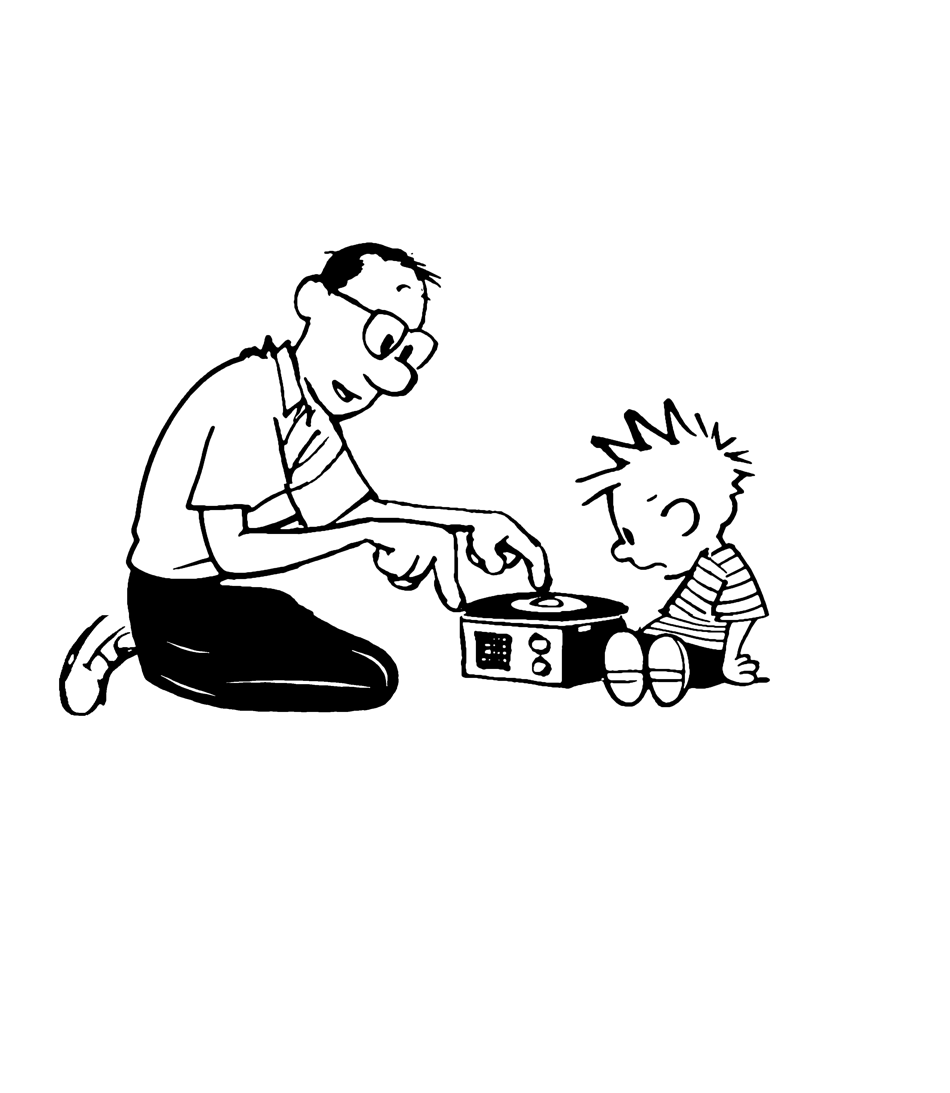
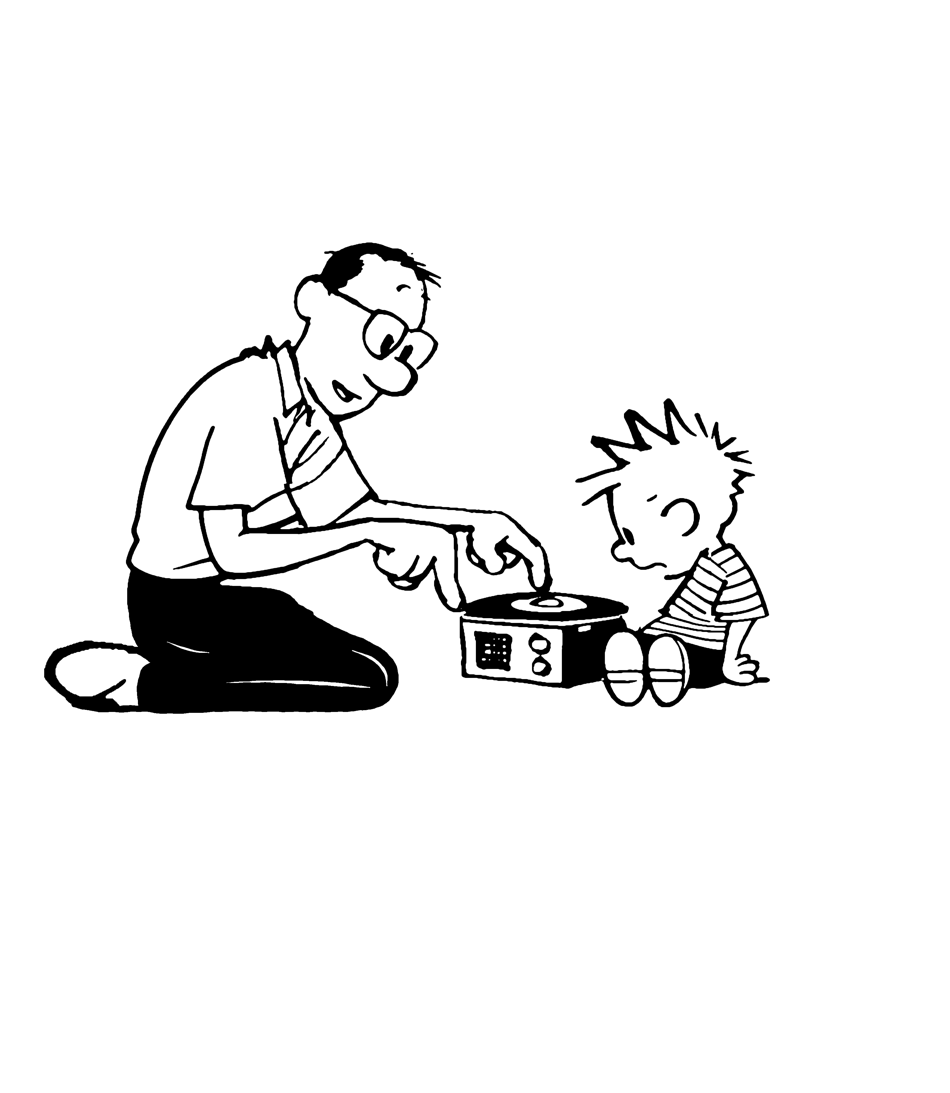
Revert "Tuck Dad's feet under him, shorten his arm, drape the resting hand"
This reverts commit 2ddb767c2: the tucked feet, shortened arm and draped
hand were worse than the versions before them.

Changed region(s): [[0.0305, 0.5599, 0.2442, 0.6532]]

diff --git a/panels.html b/panels.html
@@ -7,13 +7,13 @@
 <section id="panel-1"><h2>Panel 1</h2><p>Original central artwork with the existing completed left extension.</p>
 <p class="details">2834 × 2066 pixels · original-crop agreement: 100% · <a href="assets/full-panels/panel1.png?v=b03ae498a9" download="panel1.png">Download PNG</a> · <a href="assets/full-panels/panel1.png?v=b03ae498a9" target="_blank" rel="noopener">Open full size</a></p>
 <label><input class="show-source" type="checkbox"> Show original crop overlay</label>
-<div class="scroll"><div class="stage" style="--native-width:2834px"><img class="complete" src="assets/full-panels/panel1.png?v=b03ae498a9" width="2834" height="2066" alt="Completed comic panel 1 without dialogue" loading="lazy"><img class="source" src="assets/full-panels/original1.png" style="left:14.114326040931546%;top:0.0%;width:57.657021877205366%" width="1634" height="2066" alt="Original crop of panel 1" hidden></div></div></section><section id="panel-2"><h2>Panel 2</h2><p>Dad points to the record, sitting back on his heels. His trousers are drawn in code (drawn_legs.py); his foot is tucked under him on its toes, using panel 1's front shoe turned over. The player uses the grille and knobs from panel 1.</p>
-<p class="details">3182 × 3660 pixels · original-crop agreement: 99.251% · <a href="assets/full-panels/panel2.png?v=860604fcc2" download="panel2.png">Download PNG</a> · <a href="assets/full-panels/panel2.png?v=860604fcc2" target="_blank" rel="noopener">Open full size</a></p>
+<div class="scroll"><div class="stage" style="--native-width:2834px"><img class="complete" src="assets/full-panels/panel1.png?v=b03ae498a9" width="2834" height="2066" alt="Completed comic panel 1 without dialogue" loading="lazy"><img class="source" src="assets/full-panels/original1.png" style="left:14.114326040931546%;top:0.0%;width:57.657021877205366%" width="1634" height="2066" alt="Original crop of panel 1" hidden></div></div></section><section id="panel-2"><h2>Panel 2</h2><p>Dad points to the record, sitting back on his heels. His trousers are drawn in code (drawn_legs.py); the trailing shoe is panel 1's planted shoe turned sole up. The player uses the grille and knobs from panel 1.</p>
+<p class="details">3182 × 3660 pixels · original-crop agreement: 99.251% · <a href="assets/full-panels/panel2.png?v=f43d609ae7" download="panel2.png">Download PNG</a> · <a href="assets/full-panels/panel2.png?v=f43d609ae7" target="_blank" rel="noopener">Open full size</a></p>
 <label><input class="show-source" type="checkbox"> Show original crop overlay</label>
-<div class="scroll"><div class="stage" style="--native-width:3182px"><img class="complete" src="assets/full-panels/panel2.png?v=860604fcc2" width="3182" height="3660" alt="Completed comic panel 2 without dialogue" loading="lazy"><img class="source" src="assets/full-panels/original2.png" style="left:25.1414204902577%;top:0.0%;width:49.7171590194846%" width="1582" height="2060" alt="Original crop of panel 2" hidden></div></div></section><section id="panel-3"><h2>Panel 3</h2><p>Dad rests his hand on his thigh. Everything of him outside the scanned crop is drawn in code (drawn_legs.py); the resting hand is his scanned gesturing hand turned palm down. Calvin looks up at Dad with his feet still toward the player. His figure and the player come from panel 1, enlarged by 56% for this closer view.</p>
-<p class="details">3174 × 3660 pixels · original-crop agreement: 100% · <a href="assets/full-panels/panel3.png?v=491ff4bb35" download="panel3.png">Download PNG</a> · <a href="assets/full-panels/panel3.png?v=491ff4bb35" target="_blank" rel="noopener">Open full size</a></p>
+<div class="scroll"><div class="stage" style="--native-width:3182px"><img class="complete" src="assets/full-panels/panel2.png?v=f43d609ae7" width="3182" height="3660" alt="Completed comic panel 2 without dialogue" loading="lazy"><img class="source" src="assets/full-panels/original2.png" style="left:25.1414204902577%;top:0.0%;width:49.7171590194846%" width="1582" height="2060" alt="Original crop of panel 2" hidden></div></div></section><section id="panel-3"><h2>Panel 3</h2><p>Dad rests his hand on his thigh. Everything of him outside the scanned crop is drawn in code (drawn_legs.py); the resting hand is his scanned gesturing hand turned palm down. Calvin looks up at Dad with his feet still toward the player. His figure and the player come from panel 1, enlarged by 56% for this closer view.</p>
+<p class="details">3174 × 3660 pixels · original-crop agreement: 100% · <a href="assets/full-panels/panel3.png?v=e04a8ea2f8" download="panel3.png">Download PNG</a> · <a href="assets/full-panels/panel3.png?v=e04a8ea2f8" target="_blank" rel="noopener">Open full size</a></p>
 <label><input class="show-source" type="checkbox"> Show original crop overlay</label>
-<div class="scroll"><div class="stage" style="--native-width:3174px"><img class="complete" src="assets/full-panels/panel3.png?v=491ff4bb35" width="3174" height="3660" alt="Completed comic panel 3 without dialogue" loading="lazy"><img class="source" src="assets/full-panels/original3.png" style="left:25.20478890989288%;top:0.0%;width:49.59042218021424%" width="1574" height="2060" alt="Original crop of panel 3" hidden></div></div></section><section id="panel-4"><h2>Panel 4</h2><p>Original night scene with the existing completed left side of the bed.</p>
+<div class="scroll"><div class="stage" style="--native-width:3174px"><img class="complete" src="assets/full-panels/panel3.png?v=e04a8ea2f8" width="3174" height="3660" alt="Completed comic panel 3 without dialogue" loading="lazy"><img class="source" src="assets/full-panels/original3.png" style="left:25.20478890989288%;top:0.0%;width:49.59042218021424%" width="1574" height="2060" alt="Original crop of panel 3" hidden></div></div></section><section id="panel-4"><h2>Panel 4</h2><p>Original night scene with the existing completed left side of the bed.</p>
 <p class="details">2368 × 2042 pixels · original-crop agreement: 100% · <a href="assets/full-panels/panel4.png?v=4821633204" download="panel4.png">Download PNG</a> · <a href="assets/full-panels/panel4.png?v=4821633204" target="_blank" rel="noopener">Open full size</a></p>
 <label><input class="show-source" type="checkbox"> Show original crop overlay</label>
 <div class="scroll"><div class="stage" style="--native-width:2368px"><img class="complete" src="assets/full-panels/panel4.png?v=4821633204" width="2368" height="2042" alt="Completed comic panel 4 without dialogue" loading="lazy"><img class="source" src="assets/full-panels/original4.png" style="left:16.89189189189189%;top:0.0%;width:66.21621621621621%" width="1568" height="2042" alt="Original crop of panel 4" hidden></div></div></section><footer><p>The source comparisons use the cleaned, smoothed artwork extracted from page 247, with lettering and balloons removed. Panel 4’s signature remains a separate asset. Agreement percentages count every pixel in the original crop, including white background; panel 2 includes the earlier elbow repair. Panel 3 preserves every original ink pixel and directly reuses the original seated Calvin and record player.</p><p><a href="assets/full-panels/verification.json">Pixel comparison results</a> · <a href="assets/full-panels/provenance.json">Artwork sources and rebuild steps</a></p></footer></main>

diff --git a/tools/extensions/reconstruction-v2/drawn_legs.py b/tools/extensions/reconstruction-v2/drawn_legs.py
@@ -4,9 +4,9 @@ The scan stops at Dad's waist in panel 2 and at his chest in panel 3, so
 everything of him beyond the crops is drawn here rather than generated:
 his legs and shoes in both, and in panel 3 also his back, shirt, sleeves,
 arms and the hand resting on his thigh. Where Watterson drew the same
-thing elsewhere in the strip it is reused instead (see transplant): the
-tucked-under shoe in both is panel 1's front shoe turned over, and panel
-3's resting hand is his own gesturing hand turned palm down. The drawing follows the
+thing elsewhere in the strip it is reused instead (see transplant): panel
+2's trailing shoe is panel 1's planted shoe turned sole up, and panel 3's
+resting hand is his own gesturing hand turned palm down. The drawing follows the
 strip itself: Dad's trousers are a flat black silhouette with a few thin
 white folds, as in panel 1, and his shoes are panel 1's white shoes with a
 heavy outline, a sole line just inside it and a small heel notch. Sizes come
@@ -87,9 +87,9 @@ def thin_underarm(image):
 
 # Columns and rows of the underarm line in the panel 2 export.
 UNDERARM = (730, 1000, 1880, 1960)
-PANEL2_SHOE = (372, 2206)
-PANEL2_SHOE_TURN = 181
-PANEL2_SHOE_SCALE = (1.25, 1.25)
+PANEL2_SHOE = (300, 2256)
+PANEL2_SHOE_TURN = 180
+PANEL2_SHOE_SCALE = (1.7, 1.7)
 
 
 def panel_two(image):
@@ -98,17 +98,16 @@ def panel_two(image):
     ink = Ink((w, h), seed=2)
     # His near foot lies behind him on its upper, toe back on the floor and
     # sole turned up, heel under his seat. The far foot is hidden behind it.
-    shoe_ink, shoe_shape = panel_one_shoe('front', PANEL2_SHOE, PANEL2_SHOE_TURN,
-                                          PANEL2_SHOE_SCALE, (w, h))
+    shoe_ink, shoe_shape = panel_one_shoe(PANEL2_SHOE, PANEL2_SHOE_TURN, PANEL2_SHOE_SCALE, (w, h))
     ink.paint(shoe_shape, 255)
     ink.paint(shoe_ink, 0)
     # The trousers: seat, thigh and the shin folded under it along the floor,
     # ending in a cuff at the ankle just behind the seat. The first and last
     # three points are the scanned silhouette's edges on the crop's last
     # rows, so the drawing continues it without a step.
-    ink.fill([(426, 2000), (429, 2040), (432, 2058), (440, 2112), (452, 2156),
-              (462, 2196), (474, 2240), (490, 2276), (540, 2306), (630, 2342),
-              (760, 2374), (1000, 2384), (1200, 2380), (1282, 2362),
+    ink.fill([(426, 2000), (429, 2040), (432, 2058), (440, 2112), (458, 2160),
+              (488, 2196), (504, 2214), (478, 2236), (462, 2280), (460, 2336),
+              (474, 2376), (800, 2382), (1000, 2384), (1200, 2380), (1282, 2362),
               (1326, 2312), (1334, 2252), (1306, 2196), (1240, 2150), (1150, 2112),
               (1090, 2082), (1051, 2058), (1033, 2040), (980, 2000), (700, 1990)],
              wobble=1.2)
@@ -119,9 +118,6 @@ def panel_two(image):
                [2, 9, 11, 3], colour=255, wobble=0.6)
     ink.stroke([(560, 2150), (640, 2178), (700, 2186)],
                [2, 8, 2], colour=255, wobble=0.6)
-    # The calf, lifting off the floor towards the ankle.
-    ink.stroke([(720, 2330), (620, 2300), (540, 2262)],
-               [2, 9, 8, 2], colour=255, wobble=0.6)
     yy, xx = np.mgrid[:h, :w]
     region = (yy >= 2060) & (xx < 1540)
     return composite(thin_underarm(image), ink.mask(), region)
@@ -136,9 +132,7 @@ def outlined(ink, points, width=OUTLINE + 2):
 # The scanned gesturing hand in panel 3: its bounding box and the wrist, where
 # the two lines of the forearm reach the thumb (A) and the palm (B).
 SCAN_HAND_BOX = (1585, 1770, 2200, 2080)
-SCAN_WRIST = ((1792, 1960), (1875, 2007))
-# Where the thumb joins the palm: up from the wrist's thumb end to the palm's top.
-SCAN_THUMB_BASE = ((1838, 1860), (1846, 1770))
+SCAN_WRIST = ((1745, 1950), (1875, 2005))
 
 
 def transplant(source, keep, closing, pivot, target, angle, flip=False,
@@ -184,78 +178,52 @@ def transplant(source, keep, closing, pivot, target, angle, flip=False,
     return out[0], out[1], lambda point: tuple(forward @ (np.asarray(point) - pivot) + target)
 
 
-def resting_hand(image, target, angle, scale=1.0):
+def resting_hand(image, target, angle):
     """Panel 3's scanned open hand, turned palm down to rest on the thigh.
 
     The hand is flipped top to bottom about its wrist, which turns the palm
-    over, then tilted by `angle` degrees so the fingers drape over the thigh
-    towards the knee, with the wrist's midpoint at `target`. Its thumb is
-    left out: on a hand resting palm down it lies along the inside of the
-    thigh, out of sight. Returns the hand's ink and silhouette, and where
+    over and puts the thumb on the near side, then tilted by `angle` degrees
+    so the fingers follow the thigh down towards the knee, with the wrist's
+    midpoint at `target`. Returns the hand's ink and silhouette, and where
     the wrist's thumb and palm ends land.
     """
     x0, y0, x1, y1 = SCAN_HAND_BOX
     a, b = SCAN_WRIST
-    c, d = SCAN_THUMB_BASE
-    # The hand without its thumb: right of the thumb's base (cut a little
-    # inside it, clear of the thumb's own outline), beyond the wrist.
-    a = (a[0] + 14, a[1] + 4)
-    c, d = (c[0] + 10, c[1]), (d[0] + 10, d[1])
-    keep = [c, d, (x1, y0), (x1, y1), (b[0] + 80, b[1] + 60), b, a]
+    # Only the hand: the side of the wrist away from the elbow.
+    keep = [(x0, y0), (x1, y0), (x1, y1), (b[0] + 80, b[1] + 60), b, a, (x0, a[1])]
     middle = ((a[0] + b[0]) / 2, (a[1] + b[1]) / 2)
-    ink, shape, move = transplant(image, keep, [(a, b), (a, c)], middle, target,
-                                  angle, flip=True, scale=(scale, scale), size=image.size)
-    # Ink the side of the hand where the thumb was cut away.
-    edge = Ink(image.size, seed=6)
-    edge.stroke([move(a), move(((a[0] + c[0]) / 2, (a[1] + c[1]) / 2)), move(c)],
-                [20, 22, 20])
-    return ink | edge.mask(), shape, move(a), move(b)
+    ink, shape, move = transplant(image, keep, [(a, b)], middle, target, angle,
+                                  flip=True, size=image.size)
+    return ink, shape, move(a), move(b)
 
 
-# Dad's shoes in panel 1, in the coordinates of the full panel 1 export
-# (locked-1.png is that less 400px on the left). Each has a polygon around
-# it that stops at the trouser hem, the segments that close it there, a
-# centre to turn it about, and the line of the outline the trousers hid.
-PANEL1_SHOES = {
-    # The front shoe, landing heel first with its toe up and sole forward.
-    'front': dict(
-        keep=[(1130, 1620), (1130, 2020), (820, 2020), (820, 1900), (860, 1880),
-              (905, 1868), (950, 1840), (985, 1800), (990, 1700), (1000, 1620)],
-        close=[((860, 1882), (905, 1868)), ((905, 1868), (950, 1840)),
-               ((950, 1840), (985, 1800)), ((985, 1800), (992, 1720))],
-        centre=(975, 1845),
-        hidden=[(858, 1890), (905, 1868), (950, 1840), (985, 1800), (994, 1730)]),
-    # The planted back shoe in side view; only the part inside the scan.
-    'back': dict(
-        keep=[(400, 1872), (520, 1866), (670, 1866), (670, 2016), (400, 2016)],
-        close=[((400, 1872), (400, 2016)), ((400, 1874), (520, 1868))],
-        centre=(530, 1940),
-        hidden=[(380, 1874), (450, 1871), (520, 1872), (560, 1880)]),
-}
+# Dad's planted back shoe in panel 1, in side view, in the coordinates of
+# the full panel 1 export. Only the part inside the scanned crop (x >= 400)
+# is used; the trouser leg covers its top at the heel, so `keep` stops just
+# under the trouser's hem.
+PANEL1_SHOE_KEEP = [(400, 1872), (520, 1866), (670, 1866), (670, 2016), (400, 2016)]
+PANEL1_SHOE_CLOSE = [((400, 1872), (400, 2016)), ((400, 1874), (520, 1868))]
+PANEL1_SHOE_CENTRE = (530, 1940)
+PANEL1_SHOE_HIDDEN_TOP = [(380, 1874), (450, 1871), (520, 1872), (560, 1880)]
 
 
-def panel_one_shoe(which, target, angle, scale, size):
-    """One of panel 1's shoes, moved to `target` and turned by `angle`."""
+def panel_one_shoe(target, angle, scale, size):
+    """Panel 1's planted shoe, turned over to lie behind Dad, sole up."""
     from pathlib import Path
     from PIL import Image
-    shoe = PANEL1_SHOES[which]
     locked = Image.open(Path(__file__).resolve().parent / 'locked-1.png').convert('L')
     source = Image.new('L', (locked.width + 400, locked.height), 255)
     source.paste(locked, (400, 0))
-    ink, shape, move = transplant(source, shoe['keep'], shoe['close'], shoe['centre'],
-                                  target, angle, scale=scale, size=size)
+    ink, shape, move = transplant(source, PANEL1_SHOE_KEEP, PANEL1_SHOE_CLOSE,
+                                  PANEL1_SHOE_CENTRE, target, angle, scale=scale, size=size)
+    # Ink the top of the shoe where panel 1's trouser hem hid it.
     edge = Ink(size, seed=5)
-    edge.stroke([move(p) for p in shoe['hidden']], [16, 20, 21, 20, 16])
+    edge.stroke([move(p) for p in PANEL1_SHOE_HIDDEN_TOP], [18, 22, 22, 20])
     return ink | edge.mask(), shape
 
 
-PANEL3_SHOE = (530, 2870)
-PANEL3_SHOE_TURN = 178
-PANEL3_SHOE_SCALE = (1.42, 1.42)
-
-HAND_WRIST = (968, 2650)
-HAND_TILT = 34
-HAND_SCALE = 0.9
+HAND_WRIST = (975, 2648)
+HAND_TILT = 24
 
 
 def panel_three(image):
@@ -270,18 +238,14 @@ def panel_three(image):
     """
     w, h = image.size
     ink = Ink((w, h), seed=3)
-    # His foot is tucked under him on its toes, heel up under his seat and
-    # sole turned back, as Watterson draws a crouching Dad: panel 1's front
-    # shoe turned over, with only its toe end showing below the seat.
-    shoe_ink, shoe_shape = panel_one_shoe('front', PANEL3_SHOE, PANEL3_SHOE_TURN,
-                                          PANEL3_SHOE_SCALE, (w, h))
-    ink.paint(shoe_shape, 255)
-    ink.paint(shoe_ink, 0)
+    # The near foot trails behind him, toe on the floor and its sole turned
+    # back towards the left, so we see it foreshortened under his seat.
+    shoe(ink, heel=(612, 2846), angle=124, scale=1.08, flip=True, foreshorten=0.6)
     # The seat, the thigh running towards us to the knee and the shin folded
     # back under it to the cuff.
     ink.fill([(458, 2580), (446, 2642), (457, 2700), (456, 2740), (456, 2780),
-              (462, 2840), (478, 2896), (512, 2940), (566, 2978), (640, 3030),
-              (720, 3074), (800, 3104), (900, 3126),
+              (466, 2820), (488, 2860), (528, 2896), (590, 2924), (640, 2944),
+              (628, 2980), (668, 3030), (720, 3070), (800, 3104), (900, 3126),
               (1050, 3134), (1200, 3132), (1317, 3120), (1357, 3100), (1394, 3060),
               (1416, 3020), (1429, 2980), (1436, 2940), (1430, 2900), (1412, 2860),
               (1376, 2806), (1310, 2748), (1220, 2700), (1120, 2660), (900, 2660),
@@ -339,20 +303,20 @@ def panel_three(image):
                 (1572, 2298), (1640, 2234), (1722, 2148), (1799, 2059), (1846, 2005)],
                [18, 20, 21, 22, 22, 21, 22, 23])
 
-    # The near sleeve, rolled into a cuff just below where its front edge
-    # leaves the crop at x=942.
-    ink.stroke([(794, 1930), (772, 2000), (756, 2066)], [3, 16, 18])
-    ink.stroke([(953, 2000), (942, 2059), (944, 2072)], [20, 20, 18])
-    outlined(ink, [(706, 2068), (830, 2058), (946, 2072), (962, 2115), (956, 2165),
-                   (850, 2156), (704, 2158), (696, 2112)])
-    ink.stroke([(714, 2112), (830, 2104), (954, 2122)], [3, 11, 10, 3])
-    # The upper arm hangs straight from the cuff to the elbow; the forearm
-    # reaches forward from there to the hand on his thigh.
-    hand_ink, hand_shape, thumb_end, palm_end = resting_hand(image, HAND_WRIST, HAND_TILT, HAND_SCALE)
-    left = [(745, 2162), (734, 2240), (726, 2296), (738, 2352), (790, 2450),
-            (860, 2556), thumb_end]
-    right = [(900, 2164), (890, 2230), (884, 2284), (900, 2360), (938, 2458),
-             (972, 2556), palm_end]
+    # The near sleeve, rolled into a cuff above the elbow.
+    ink.stroke([(794, 1930), (772, 2000), (752, 2090)], [3, 16, 18])
+    ink.stroke([(953, 2000), (942, 2059), (936, 2094)], [20, 20, 18])
+    outlined(ink, [(708, 2094), (830, 2080), (948, 2098), (966, 2150), (958, 2206),
+                   (850, 2194), (706, 2192), (698, 2142)])
+    ink.stroke([(716, 2150), (830, 2142), (956, 2160)], [3, 11, 10, 3])
+    # The near arm hangs from the cuff, bends a little at the elbow and
+    # reaches forward to the thigh.
+    hand_ink, hand_shape, thumb_end, palm_end = resting_hand(image, HAND_WRIST, HAND_TILT)
+    left = [(745, 2196), (738, 2300), (714, 2400), (708, 2445), (734, 2506),
+            (800, 2574), thumb_end,
+            tuple(np.add(thumb_end, np.subtract(thumb_end, (800, 2574)) * 0.3))]
+    right = [(900, 2202), (880, 2300), (864, 2380), (862, 2440), (898, 2516),
+             (950, 2570), palm_end]
     ink.fill(left + right[::-1], colour=255, wobble=0)
     # The forearm's edges go over the hand's wrist so the two join.
     edges = Ink((w, h), seed=4)

diff --git a/tools/extensions/reconstruction-v2/build_review.py b/tools/extensions/reconstruction-v2/build_review.py
@@ -10,7 +10,7 @@ for r in records:
     n=r['panel'];w,h=r['size'];x,y=r['originalOffset'];ow,oh=r['originalSize']
     digest=hashlib.sha256((OUT/f'panel{n}.png').read_bytes()).hexdigest()[:10]
     match=f"{100*r['originalMatchFraction']:.3f}".rstrip('0').rstrip('.')
-    note={1:'Original central artwork with the existing completed left extension.',2:'Dad points to the record, sitting back on his heels. His trousers are drawn in code (drawn_legs.py); his foot is tucked under him on its toes, using panel 1\'s front shoe turned over. The player uses the grille and knobs from panel 1.',3:'Dad rests his hand on his thigh. Everything of him outside the scanned crop is drawn in code (drawn_legs.py); the resting hand is his scanned gesturing hand turned palm down. Calvin looks up at Dad with his feet still toward the player. His figure and the player come from panel 1, enlarged by 56% for this closer view.',4:'Original night scene with the existing completed left side of the bed.'}[n]
+    note={1:'Original central artwork with the existing completed left extension.',2:'Dad points to the record, sitting back on his heels. His trousers are drawn in code (drawn_legs.py); the trailing shoe is panel 1\'s planted shoe turned sole up. The player uses the grille and knobs from panel 1.',3:'Dad rests his hand on his thigh. Everything of him outside the scanned crop is drawn in code (drawn_legs.py); the resting hand is his scanned gesturing hand turned palm down. Calvin looks up at Dad with his feet still toward the player. His figure and the player come from panel 1, enlarged by 56% for this closer view.',4:'Original night scene with the existing completed left side of the bed.'}[n]
     parts.append(f'''<section id="panel-{n}"><h2>Panel {n}</h2><p>{note}</p>
 <p class="details">{w} × {h} pixels · original-crop agreement: {match}% · <a href="assets/full-panels/panel{n}.png?v={digest}" download="panel{n}.png">Download PNG</a> · <a href="assets/full-panels/panel{n}.png?v={digest}" target="_blank" rel="noopener">Open full size</a></p>
 <label><input class="show-source" type="checkbox"> Show original crop overlay</label>
